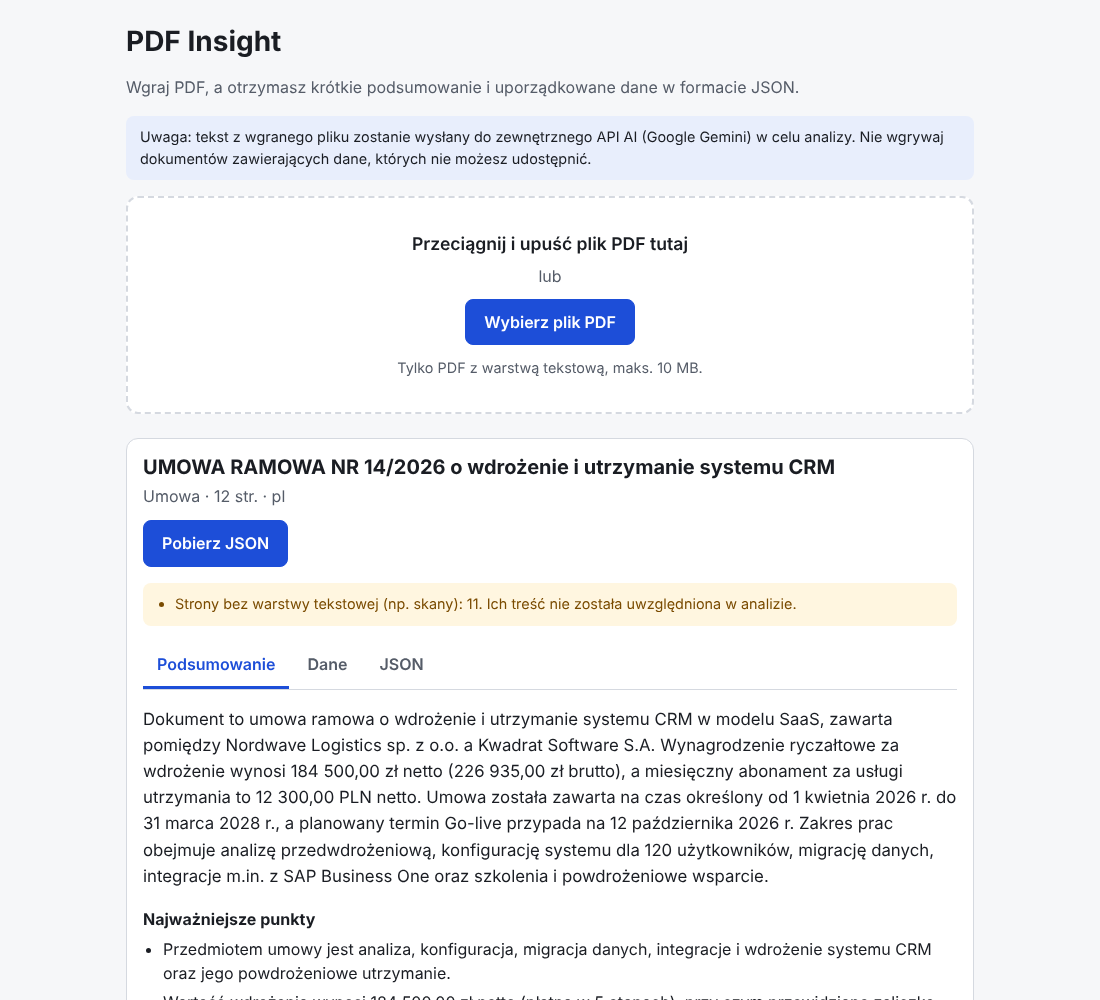
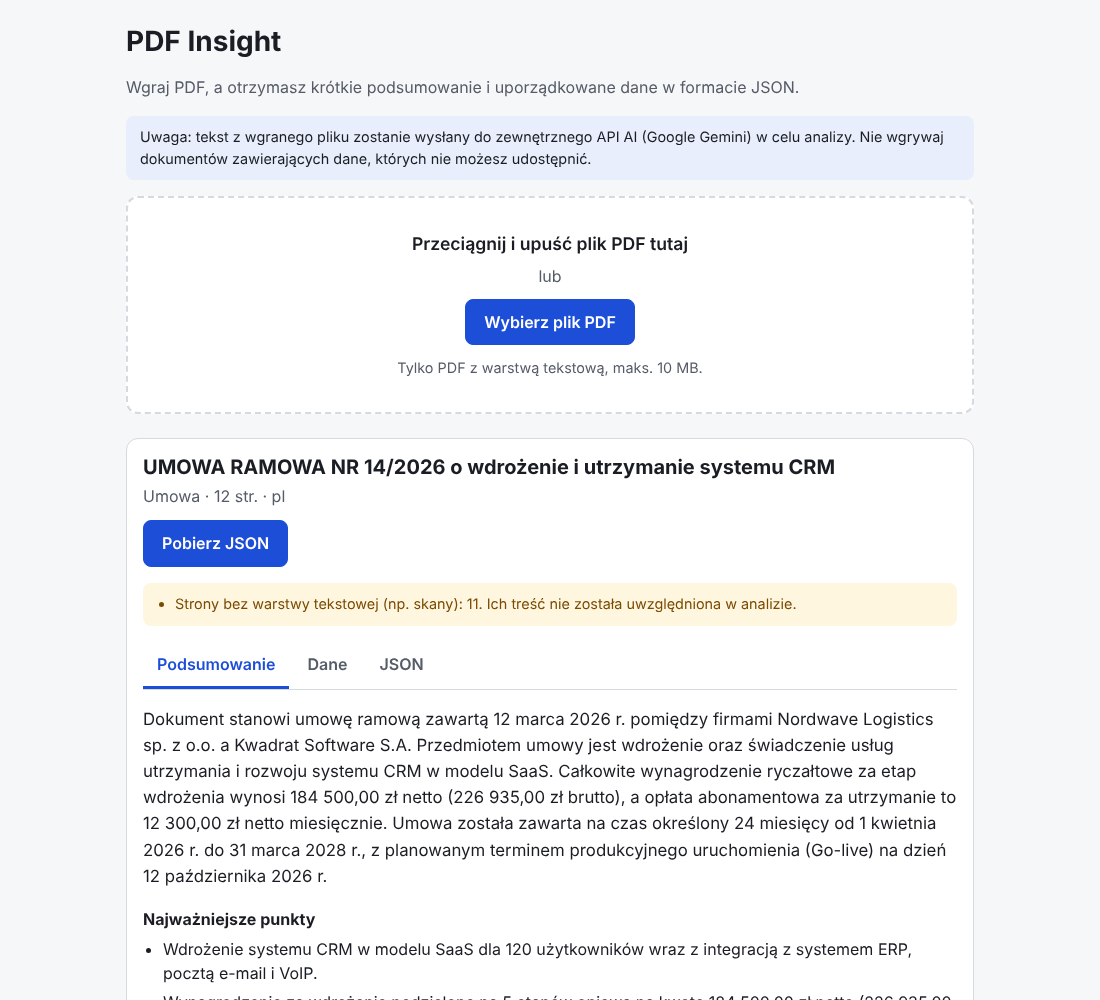
docs: align README and AI_LOG with the current model, CORS and local setup
Claude-Session: https://claude.ai/code/session_01BPp9teNtiCMRbSNfL9QJRU

Changed region(s): [[0.1236, 0.713, 0.8655, 0.899], [0.1545, 0.93, 0.8655, 1.0]]

diff --git a/README.md b/README.md
@@ -26,15 +26,15 @@ Przykładowy wynik dla dokumentu testowego: [`docs/example-umowa-14-2026.insight
 
 ## Decyzje
 
-| Decyzja                                       | Dlaczego                                                                                                                                                                 |
-| --------------------------------------------- | ------------------------------------------------------------------------------------------------------------------------------------------------------------------------ |
-| Ekstrakcja tekstu w przeglądarce (pdf.js)     | brak wysyłania pliku binarnego, mniejsze żądanie, worker pozostaje prosty                                                                                                |
-| Cloudflare Workers                            | darmowy plan, sekrety, brak serwera do utrzymania przez 14 dni                                                                                                           |
-| Gemini 2.5 Flash (darmowy limit)              | natywny tryb JSON ze schematem, długi kontekst (cały dokument w jednym żądaniu, bez dzielenia), dobra jakość dla języka polskiego, odpowiedź < 30 s (myślenie wyłączone) |
-| Jeden schemat dla wszystkich typów dokumentów | brief definiuje typy `faktura / umowa / oferta / raport / inne`; schemat nie został rozszerzony                                                                          |
-| Brak danych = `null` lub `[]`                 | zgodnie z briefem; model ma zakaz zgadywania                                                                                                                             |
-| Treść PDF traktowana jako dane                | instrukcja systemowa, tekst w znacznikach `<document>`, wymuszony schemat, walidacja; dokument testowy zawiera próbę prompt injection                                    |
-| Bez routera i bibliotek UI                    | jedna strona, mniej zależności                                                                                                                                           |
+| Decyzja                                                        | Dlaczego                                                                                                                                                                                                                                      |
+| -------------------------------------------------------------- | --------------------------------------------------------------------------------------------------------------------------------------------------------------------------------------------------------------------------------------------- |
+| Ekstrakcja tekstu w przeglądarce (pdf.js)                      | brak wysyłania pliku binarnego, mniejsze żądanie, worker pozostaje prosty                                                                                                                                                                     |
+| Cloudflare Workers                                             | darmowy plan, sekrety, brak serwera do utrzymania przez 14 dni                                                                                                                                                                                |
+| Gemini Flash przez alias `gemini-flash-latest` (darmowy limit) | natywny tryb JSON ze schematem, długi kontekst (cały dokument w jednym żądaniu, bez dzielenia), dobra jakość dla języka polskiego; `thinkingLevel: low` dla krótszej odpowiedzi; alias, bo konkretny `gemini-2.5-flash` został wycofany (404) |
+| Jeden schemat dla wszystkich typów dokumentów                  | brief definiuje typy `faktura / umowa / oferta / raport / inne`; schemat nie został rozszerzony                                                                                                                                               |
+| Brak danych = `null` lub `[]`                                  | zgodnie z briefem; model ma zakaz zgadywania                                                                                                                                                                                                  |
+| Treść PDF traktowana jako dane                                 | instrukcja systemowa, tekst w znacznikach `<document>`, wymuszony schemat, walidacja; dokument testowy zawiera próbę prompt injection                                                                                                         |
+| Bez routera i bibliotek UI                                     | jedna strona, mniej zależności                                                                                                                                                                                                                |
 
 ## Struktura
 
@@ -52,10 +52,18 @@ Wymagania: Node 22.
 
 ```bash
 npm ci
-cp .env.example .env.local   # ustaw VITE_API_URL na adres workera
-npm run dev                  # http://localhost:5173/pdf-insight-api/
 npm test                     # Vitest
 npm run lint && npm run build
+```
+
+Produkcyjny worker akceptuje tylko origin demo, dlatego lokalny frontend potrzebuje lokalnego workera:
+
+```bash
+cp worker/.dev.vars.example worker/.dev.vars   # wpisz własny GEMINI_API_KEY (plik jest w .gitignore)
+cd worker && npx wrangler dev                  # http://localhost:8787
+# w drugim terminalu, w katalogu głównym:
+echo "VITE_API_URL=http://localhost:8787" > .env.local
+npm run dev                                    # http://localhost:5173/pdf-insight-api/
 ```
 
 ### Zmienne środowiskowe
@@ -82,12 +90,13 @@ Settings → Pages → Source: **GitHub Actions**. Settings → Secrets and vari
 - Klucz API istnieje tylko jako sekret workera; nie ma go w kodzie, w `.env` ani w historii Git (`.env*` w `.gitignore`).
 - CORS: w produkcji `ALLOWED_ORIGINS` zawiera tylko `https://arsenilamaka.github.io` (dokładny origin, bez ścieżki repozytorium i bez `localhost`); inne originy dostają 403. Lokalnie worker uruchamia się z `worker/.dev.vars` (w `.gitignore`), np. `ALLOWED_ORIGINS=http://localhost:5173`.
 - CORS **nie chroni** przed bezpośrednimi żądaniami HTTP: nagłówek `Origin` można podrobić np. w curl. Przed nadużyciem chronią limit żądań na IP, limity rozmiaru i dzienny limit API Gemini.
-- Limity: 10 MB pliku, 200 000 znaków tekstu, 1 MB żądania, 10 analiz na 10 minut z jednego IP.
+- Limity: 10 MB pliku, 200 000 znaków tekstu, 1 MB żądania, 10 analiz na 10 minut z jednego IP w obrębie instancji workera (bez bindingu `RATE_LIMITER` nie jest to limit globalny).
 - Brak `dangerouslySetInnerHTML`; wyniki AI są renderowane jako tekst.
 - Interfejs informuje, że tekst pliku trafia do zewnętrznego API AI.
 
 ## Znane ograniczenia
 
+- Dokumenty z mniej niż 200 znakami tekstu są odrzucane przed wysłaniem do AI, bo schemat (3–5 zdań, 3–7 punktów) wymusiłby zmyślanie treści.
 - **Skany bez warstwy tekstowej nie są analizowane** (OCR to punkt COULD). Strony-skany są wykrywane i zgłaszane. W dokumencie testowym dotyczy to strony 11 (Aneks nr 1), więc zmiany z aneksu nie trafiają do wyniku.
 - Limit żądań w workerze działa w obrębie jednej instancji (best effort). Dla twardego limitu można podpiąć binding `RATE_LIMITER` (Workers Rate Limiting), obsługiwany przez kod.
 - Darmowy limit Gemini jest ograniczony dziennie i może się zmienić; po jego wyczerpaniu aplikacja pokazuje komunikat o błędzie.

diff --git a/AI_LOG.md b/AI_LOG.md
@@ -5,7 +5,7 @@ Dziennik faktycznego użycia narzędzi AI w tym projekcie.
 ## Narzędzia
 
 - **Claude Code** (Anthropic): analiza briefu i dokumentu testowego, plan architektury, generowanie kodu, testów i dokumentacji, uruchamianie lint/test/build i testu w przeglądarce (Playwright, Chromium).
-- **Google Gemini 2.5 Flash**: model używany przez aplikację w czasie działania (analiza dokumentów), nie do pisania kodu.
+- **Google Gemini Flash** (alias `gemini-flash-latest`, wcześniej `gemini-2.5-flash`): model używany przez aplikację w czasie działania (analiza dokumentów), nie do pisania kodu.
 
 ## Podział pracy
 
@@ -30,6 +30,8 @@ Dziennik faktycznego użycia narzędzi AI w tym projekcie.
 5. **Rozmiar paczki.** Pierwszy build miał 748 kB JS (pdf.js). Poprawka: dynamiczny import pdf.js przy pierwszym pliku, start strony ładuje ok. 320 kB.
 6. **Wycofany model.** Pierwsza konfiguracja używała `gemini-2.5-flash`. Na opublikowanym demo Gemini zwrócił 404, bo model nie był już dostępny. Poprawka: domyślny alias `gemini-flash-latest`, `thinkingLevel: low` dla nowszych modeli i czytelny błąd konfiguracji przy 404.
 7. **CORS.** AI zaproponowało dopisanie `localhost` do produkcyjnej listy originów. Poprawka po mojej uwadze: w produkcji tylko `https://arsenilamaka.github.io`, `localhost` tylko w lokalnym `.dev.vars`.
+
+8. **Audyt przed oddaniem** (zlecony przeze mnie, wykonany przez AI): PDF z jedną linijką tekstu trafiał do AI, choć schemat wymaga 3–7 punktów, co zmuszało model do zmyślania. Poprawka: próg 200 znaków przed wywołaniem AI. Odpowiedzi Gemini 400/401/403 (zły klucz) były pokazywane jako „usługa chwilowo niedostępna” z przyciskiem ponowienia. Poprawka: błąd konfiguracji bez ponowienia. README nie zgadzało się z kodem (model, lokalne uruchomienie po zawężeniu CORS); poprawione.
 
 ## Weryfikacja (ręczna, na opublikowanym demo)
 
